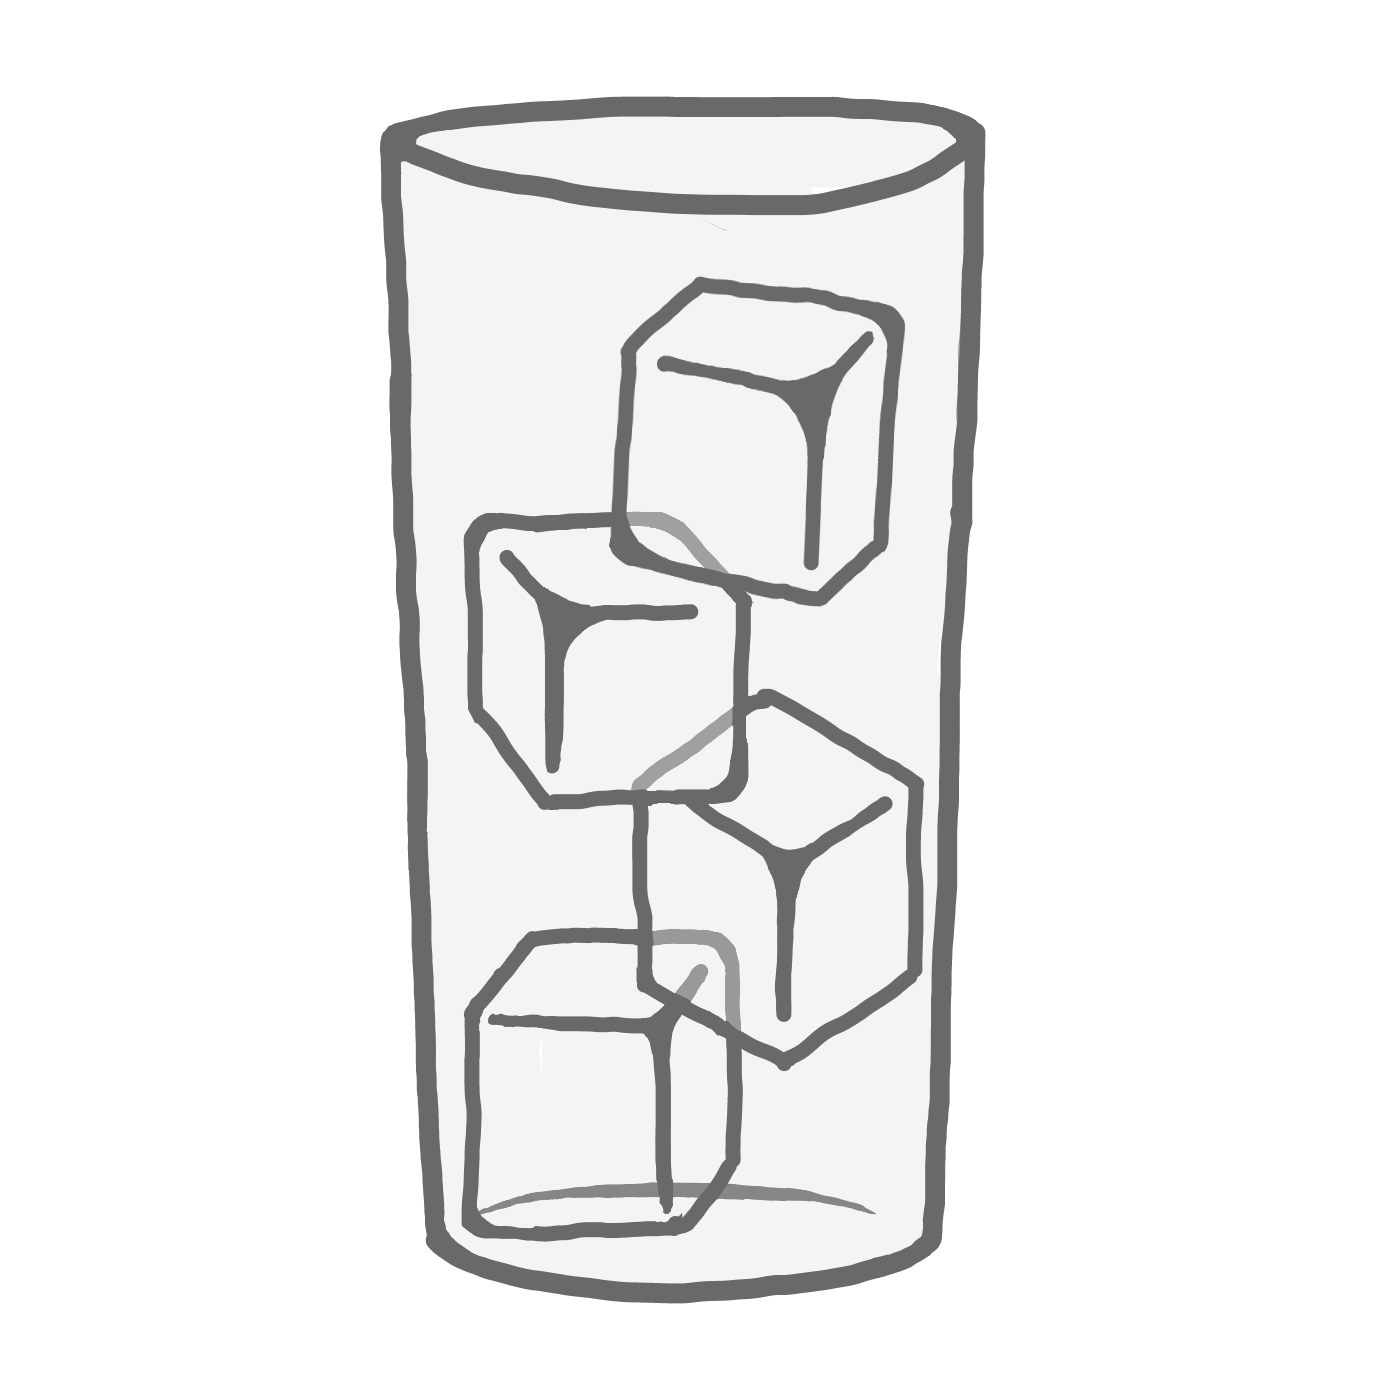
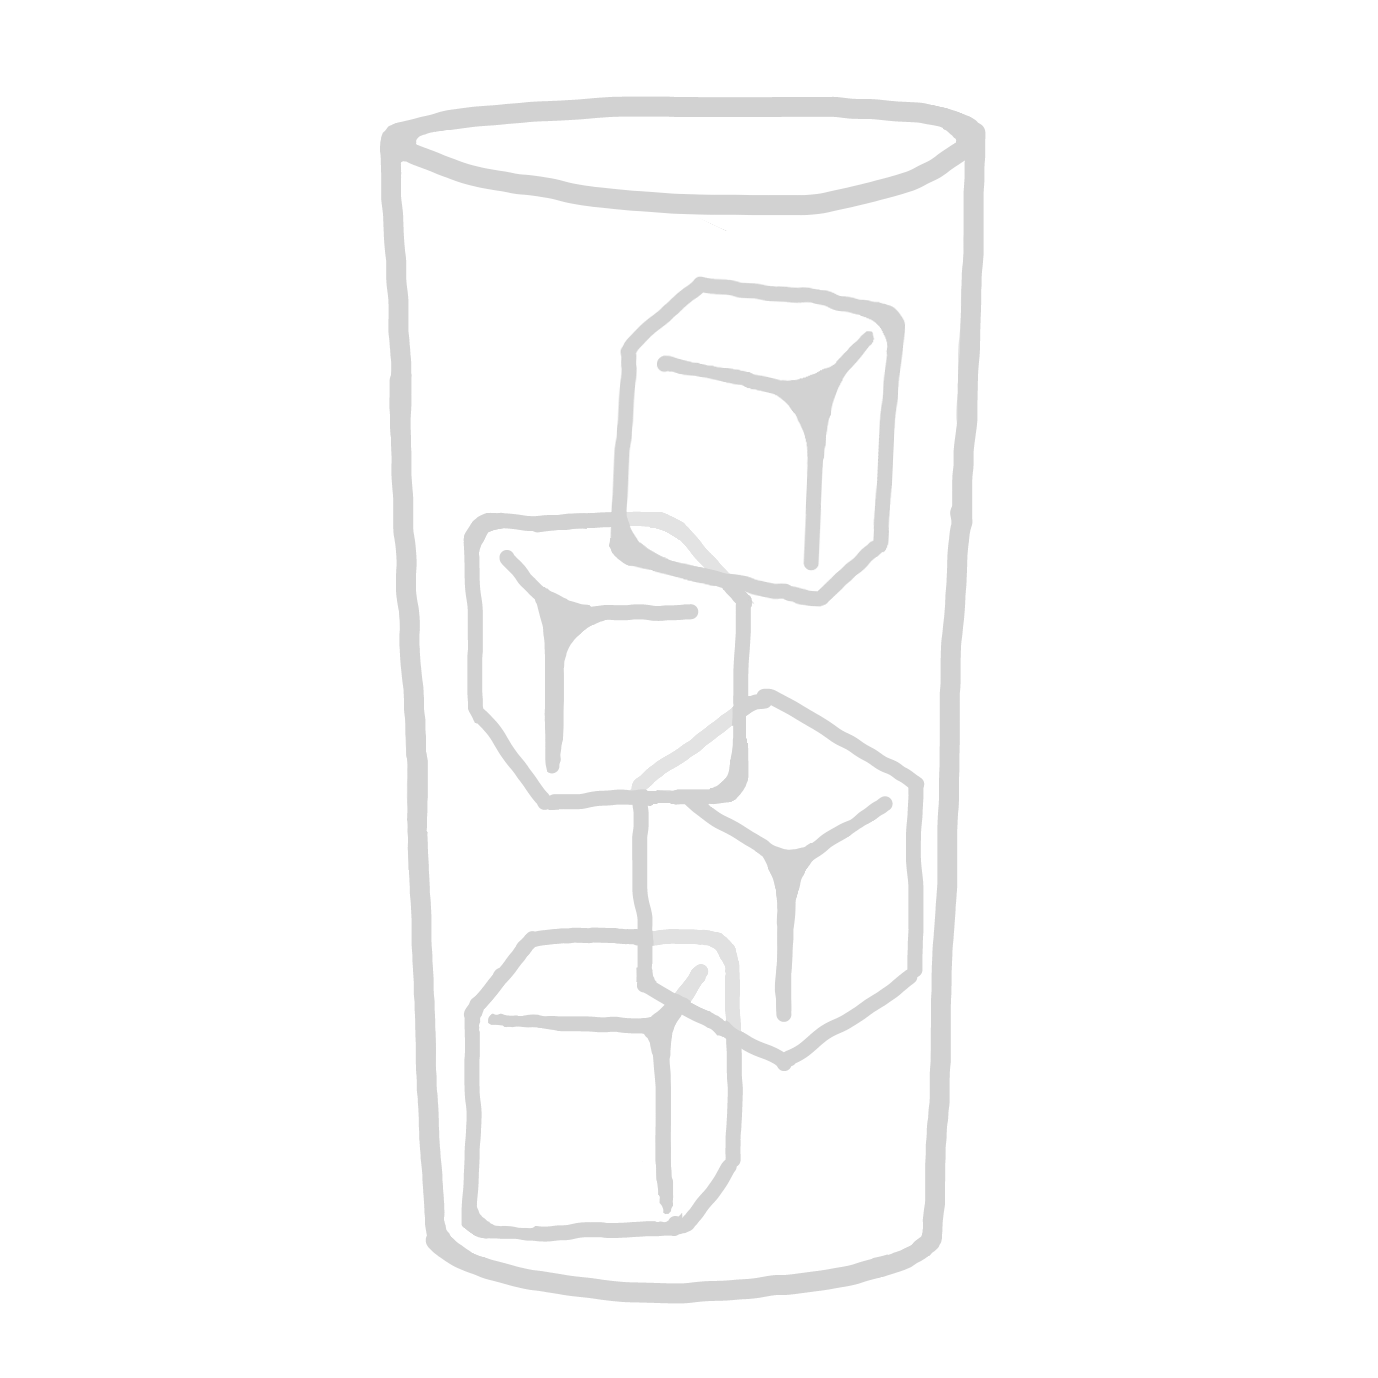
Update image style

Changed region(s): [[0.2496, 0.0624, 0.7177, 0.9673]]

diff --git a/frontend/src/components/CreateMessageTop.tsx b/frontend/src/components/CreateMessageTop.tsx
@@ -2,10 +2,14 @@ import { css } from "@hono/hono/css";
 import { WithHTML } from "../layout/WithHTML.tsx";
 
 const imageStyle = css`
-  height: 100vh;
+  height: 90vh;
   display: flex;
   justify-content: center;
   align-items: center;
+
+  img {
+    width: 24rem;
+  }
 `;
 
 const buttonStyle = css`
@@ -28,7 +32,7 @@ export function CreateMessageTop() {
     <WithHTML>
       <div>
         <div class={imageStyle}>
-          <img src="src/assets/images/empty-glass" alt="empty glass" />
+          <img src="../images/empty-glass.png" alt="empty glass" />
         </div>
         <div class={buttonStyle}>
           <a href="/create/select">

diff --git a/frontend/src/components/CreateMessageCheck.tsx b/frontend/src/components/CreateMessageCheck.tsx
@@ -2,10 +2,14 @@ import { css, cx } from "@hono/hono/css";
 import { WithHTML } from "../layout/WithHTML.tsx";
 
 const imageStyle = css`
-  height: 100vh;
+  height: 90vh;
   display: flex;
   justify-content: center;
   align-items: center;
+
+  img {
+    width: 24rem;
+  }
 `;
 
 const messageStyle = css`
@@ -54,7 +58,7 @@ export function CreateMessageCheck() {
     <WithHTML>
       <div>
         <div class={imageStyle}>
-          <img src="src/assets/images/empty-glass" alt="empty glass" />
+          <img src="../images/empty-glass.png" alt="empty glass" />
         </div>
         <div class={messageStyle}>
           <p>

diff --git a/frontend/src/components/router.tsx b/frontend/src/components/router.tsx
@@ -7,13 +7,13 @@ import { CreateMessageCheck } from "./CreateMessageCheck.tsx";
 export const createMessage = new Hono();
 
 createMessage
-  .get("/", (ctx) => {
+  .get("/create", (ctx) => {
     return ctx.html(<CreateMessageTop />);
   })
-  .get("/select", (ctx) => {
+  .get("/create/select", (ctx) => {
     return ctx.html(<CreateMessageSelect />);
   })
-  .get("/check", (ctx) => {
+  .get("/create/check", (ctx) => {
     return ctx.html(<CreateMessageCheck />);
   })
-  .use("/empty-glass.png", serveStatic({ path: "../images/empty-glass.png" }));
+  .use("images/*", serveStatic({ root: "/frontend/src" }));

diff --git a/backend/src/server.ts b/backend/src/server.ts
@@ -18,6 +18,6 @@ app.use(logger());
 app
   .get("/", (ctx: Context) => ctx.text("Cocktail Message App"))
   .route("/api", api)
-  .route("/create", createMessage);
+  .route("/", createMessage);
 
 Deno.serve(app.fetch);
